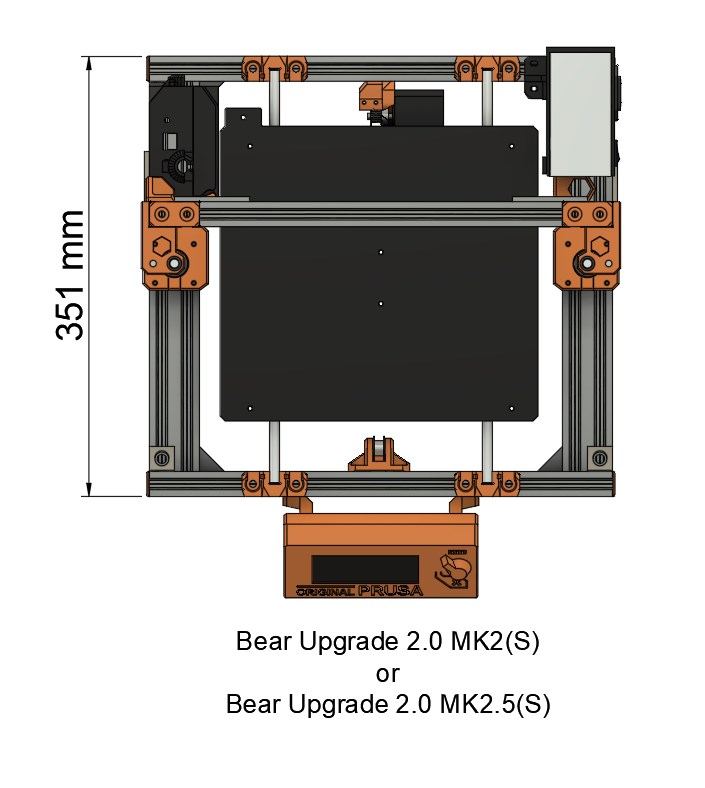
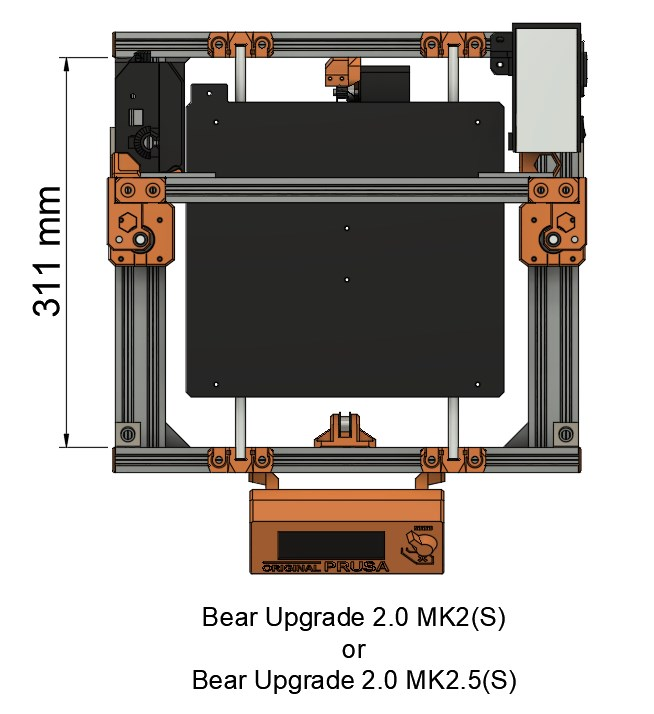
switch to extrusion length

Changed region(s): [[0.0306, 0.0308, 0.9174, 0.986]]

diff --git a/optional_parts/y_belt_holder_for_bear2.0_mk2s_mk2.5_mk2.5s/README.md b/optional_parts/y_belt_holder_for_bear2.0_mk2s_mk2.5_mk2.5s/README.md
@@ -12,9 +12,9 @@ The new Bear 2.1 frame is based on the Bear 2.0 MK3 frame and is longer.
 
 ### Which frame do I have?
 
-Measure the full length of your Y axis like on the picture below.
-  * If the length is **351 mm long** (±1mm) then you need the Y belt holder listed in this page.
-  * If the length is **371 mm long** (±1mm) then you can use the standard Bear 2.1 Y axis from [here](../../printed_parts/).
+Measure the length of your Y axis **extrusion** as seen on the picture below.
+  * If the length is **311 mm long** (±1mm) then you need the Y belt holder listed in this page.
+  * If the length is **331 mm long** (±1mm) then you can use the standard Bear 2.1 Y axis from [here](../../printed_parts/).
 
 ![Bear version MK2S MK2.5 MK2.5S](../../doc/bear_versions_frame_sizes_mk2-2s-2.5-2.5s.jpg)
 
